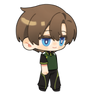
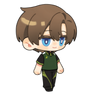
add animation to dino

Changed region(s): [[0.3368, 0.5684, 0.6737, 0.9684], [0.5263, 0.7789, 0.5474, 0.8]]

diff --git a/dino/script.js b/dino/script.js
@@ -5,6 +5,7 @@ ctx.imageSmoothingEnabled=true
 const SCALE=1.5
 const PLAYER_H=Math.round(48*SCALE)
 const OBST_H=Math.round(46*SCALE)
+const RUN_FRAMES=3
 
 const ui={
   score:document.getElementById('score'),
@@ -39,6 +40,12 @@ function makeSprite(path,targetH){
   return sp
 }
 
+function buildPlayerFrames(path){
+  const base=path.replace('.png','')
+  const paths=[base+'.png',base+'_2.png',base+'_3.png']
+  return paths.map(p=>makeSprite(p,PLAYER_H))
+}
+
 function loadImage(path){const img=new Image();img.src='assets/'+path;return img}
 function setPreview(type,path,i=0){
   const img=loadImage(path)
@@ -54,7 +61,8 @@ function updatePreview(type,delta,i=0){
   if(type==='player'){
     indices.player=(indices.player+delta+ASSETS.player.length)%ASSETS.player.length
     setPreview('player',ASSETS.player[indices.player])
-    player.sp=makeSprite(ASSETS.player[indices.player],PLAYER_H)
+    player.frames=buildPlayerFrames(ASSETS.player[indices.player])
+    player.sp=player.frames[0]
   }
   if(type==='gain'){
     indices.gain=(indices.gain+delta+ASSETS.gain.length)%ASSETS.gain.length
@@ -86,7 +94,13 @@ function spinListDirect(list,setter,el,lock){
 }
 
 function setIndex(type,idx,i=0){
-  if(type==='player'){indices.player=idx;setPreview('player',ASSETS.player[idx]);player.sp=makeSprite(ASSETS.player[idx],PLAYER_H);if(!running)renderIdle()}
+  if(type==='player'){
+    indices.player=idx
+    setPreview('player',ASSETS.player[idx])
+    player.frames=buildPlayerFrames(ASSETS.player[idx])
+    player.sp=player.frames[0]
+    if(!running)renderIdle()
+  }
   if(type==='gain'){indices.gain=idx;setPreview('gain',ASSETS.gain[idx])}
   if(type==='lose'){indices.lose[i]=idx;setPreview('lose',ASSETS.lose[idx],i)}
   if(type==='support'){indices.support[i]=idx;setPreview('support',ASSETS.support[idx],i)}
@@ -142,7 +156,8 @@ setPreview('support',ASSETS.support[0],0)
 setPreview('support',ASSETS.support[1],1)
 
 let running=false,score=0,best=0
-let player={x:50,y:H-10,w:40,h:40,vy:0,onGround:true,sp:makeSprite(ASSETS.player[indices.player],PLAYER_H)}
+let playerFrames=buildPlayerFrames(ASSETS.player[indices.player])
+let player={x:50,y:H-10,w:40,h:40,vy:0,onGround:true,sp:playerFrames[0],frames:playerFrames,frameIdx:0,frameT:0,frameDt:0.08}
 let obstacles=[],gains=[]
 const gravity=0.7, jump=-16
 let startTime=0
@@ -191,27 +206,42 @@ function loop(){
   player.y+=player.vy
   if(player.y>H-10){player.y=H-10;player.vy=0;player.onGround=true}
 
-  ctx.drawImage(player.sp.img,player.x,player.y-player.sp.h,player.sp.w,player.sp.h)
+  const dsp=player.frames[Math.min(player.frameIdx,player.frames.length-1)]||player.sp
+  ctx.drawImage(dsp.img,player.x,player.y-dsp.h,dsp.w,dsp.h)
 
-	if(sec>=nextSpawnSec){
-	  const pick = Math.random()<0.5 ? indices.lose[0] : indices.lose[1]
-	  const o={x:W,y:H-10,sp:makeSprite(ASSETS.lose[pick],OBST_H)}
-	  obstacles.push(o)
-	  if(Math.random()<0.7){
-		const gsp=makeSprite(ASSETS.gain[indices.gain],Math.round(32*SCALE))
-		const mode=Math.random()<0.5?'above':'ground'
-		if(mode==='above'){
-		  const gx=o.x+Math.max(80,Math.round(o.sp.w*0.5))
-		  const gy=o.y-o.sp.h-24
-		  gains.push({x:gx,y:gy,sp:gsp})
-		}else{
-		  const gx=W+80+Math.random()*160
-		  const gy=H-10
-		  gains.push({x:gx,y:gy,sp:gsp})
-		}
-	  }
-	  scheduleNextSpawn(sec)
-	}
+  if(speed>0){
+    if(player.onGround){
+      player.frameT+=dt
+      if(player.frameT>=player.frameDt){
+        player.frameT=0
+        player.frameIdx=(player.frameIdx+1)%RUN_FRAMES
+      }
+    }else{
+      player.frameIdx=1
+    }
+  }else{
+    player.frameIdx=0
+  }
+
+  if(sec>=nextSpawnSec){
+    const pick = Math.random()<0.5 ? indices.lose[0] : indices.lose[1]
+    const o={x:W,y:H-10,sp:makeSprite(ASSETS.lose[pick],OBST_H)}
+    obstacles.push(o)
+    if(Math.random()<0.7){
+      const gsp=makeSprite(ASSETS.gain[indices.gain],Math.round(32*SCALE))
+      const mode=Math.random()<0.5?'above':'ground'
+      if(mode==='above'){
+        const gx=o.x+Math.max(80,Math.round(o.sp.w*0.5))
+        const gy=o.y-o.sp.h-24
+        gains.push({x:gx,y:gy,sp:gsp})
+      }else{
+        const gx=W+80+Math.random()*160
+        const gy=H-10
+        gains.push({x:gx,y:gy,sp:gsp})
+      }
+    }
+    scheduleNextSpawn(sec)
+  }
 
   obstacles.forEach(o=>{o.x-=speed;ctx.drawImage(o.sp.img,o.x,o.y-o.sp.h,o.sp.w,o.sp.h)})
   obstacles=obstacles.filter(o=>o.x+o.sp.w>0)
@@ -279,7 +309,7 @@ function drawBackground(sec,speed,dt){
 function renderIdle(){
   ctx.clearRect(0,0,W,H)
   drawBackground(0,0,0)
-  ctx.drawImage(player.sp.img,player.x,(H-10)-player.sp.h,player.sp.w,player.sp.h)
+  ctx.drawImage(player.frames[0].img,player.x,(H-10)-player.frames[0].h,player.frames[0].w,player.frames[0].h)
 }
 
 function resetState(){
@@ -287,7 +317,7 @@ function resetState(){
   ui.score.textContent=0
   obstacles=[]
   gains=[]
-  player.y=H-10;player.vy=0;player.onGround=true
+  player.y=H-10;player.vy=0;player.onGround=true;player.frameIdx=0;player.frameT=0
   spawnTimer=0
   nextSpawnSec=0
   groundOff=0;bgOff=0;cloudOff=0
